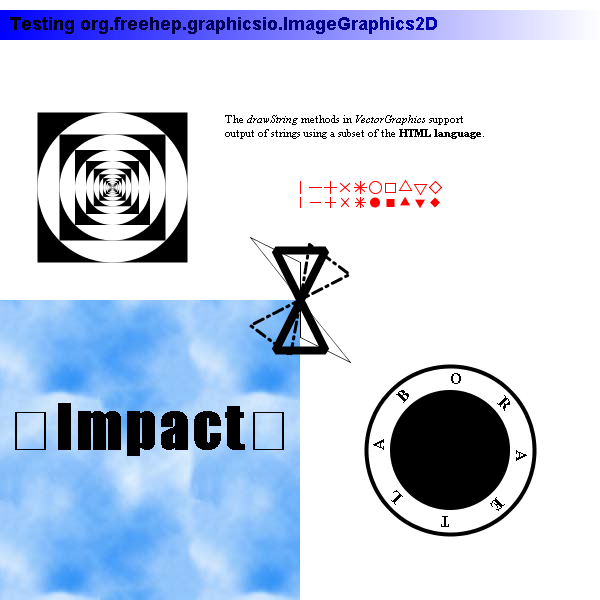
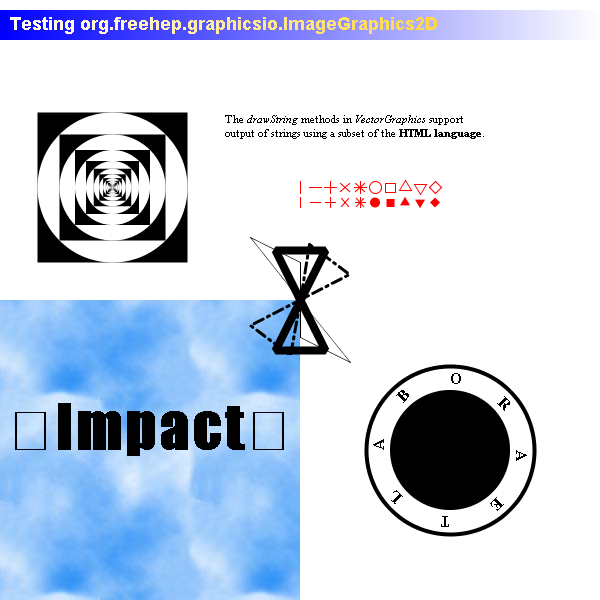
Updated ref file for TestAll; Fixed writing of gradient text

Changed region(s): [[0.0, 0.03, 0.75, 0.06]]

diff --git a/freehep-graphicsio-swf/src/main/java/org/freehep/graphicsio/swf/SWFGraphics2D.java b/freehep-graphicsio-swf/src/main/java/org/freehep/graphicsio/swf/SWFGraphics2D.java
@@ -42,7 +42,7 @@ import org.freehep.util.Value;
  * SWF Graphics 2D driver.
  * 
  * @author Mark Donszelmann
- * @version $Id: freehep-graphicsio-swf/src/main/java/org/freehep/graphicsio/swf/SWFGraphics2D.java 3e48ba4ef214 2006/11/27 22:51:07 duns $
+ * @version $Id: freehep-graphicsio-swf/src/main/java/org/freehep/graphicsio/swf/SWFGraphics2D.java 9fd14b4f13ca 2006/11/28 00:22:04 duns $
  */
 public class SWFGraphics2D extends AbstractVectorGraphicsIO implements
 		SWFConstants {
@@ -449,15 +449,6 @@ public class SWFGraphics2D extends AbstractVectorGraphicsIO implements
 				new AffineTransform(), text);
 		id.set(id.getInt() + 1);
 
-		// NOTE: SWF 6 does not seem to support Text filled with gradients.
-		// if fillStyle 1 is a Gradient, replace it with Black
-		FillStyle nonSolidFillStyle = null;
-		if (fillStyles.get(0).getType() != FillStyle.SOLID) {
-			nonSolidFillStyle = fillStyles.get(0);
-			fillStyles = new FillStyleArray();
-			fillStyles.add(new FillStyle(Color.BLACK));
-		}
-
 		// hook font and text
 		for (int i = 0; i < glyphs.getNumGlyphs(); i++) {
 			// add filled shapes to font
@@ -475,12 +466,6 @@ public class SWFGraphics2D extends AbstractVectorGraphicsIO implements
 		// place String
 		os.writeTag(new PlaceObject2(textID, depth.getInt(), getTransform()));
 		depth.set(depth.getInt() + 1);
-
-		// Special case for Gradient: put original fill style back
-		if (nonSolidFillStyle != null) {
-			fillStyles = new FillStyleArray();
-			fillStyles.add(nonSolidFillStyle);
-		}
 
 		if (showBounds) {
 			SWFShape swfBounds = createShape(bounds, 2, 0, -1);
